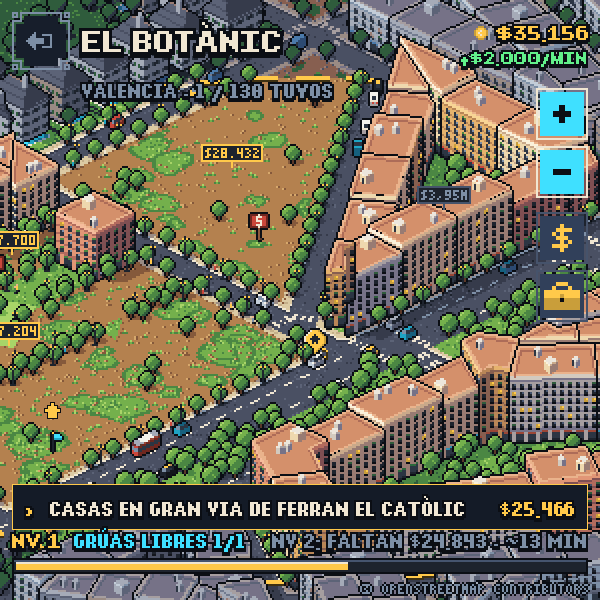
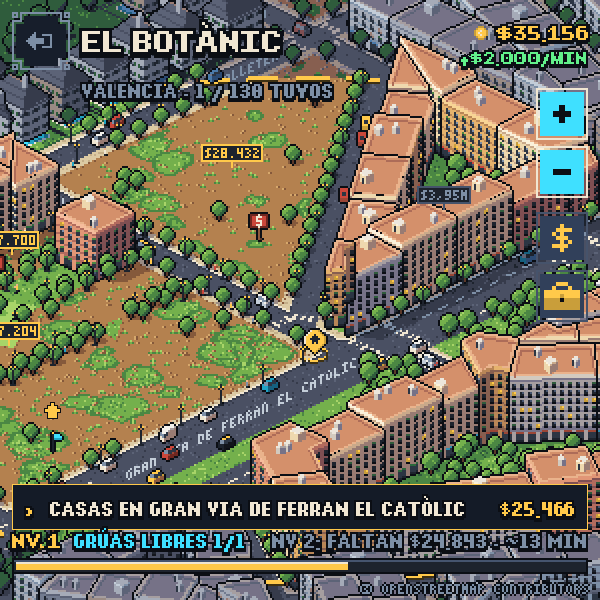
Document the lower skyline and the street names, refresh the screenshots
docs/screenshots/skyline/ for Oscar: skyline_before_after.png (the grown
Valencia area at x2, old | new), skyline_options.png (layouts A-D),
tiers_new.png, labels_options.png (looks A-D) and labels_final.png.
The game's Valencia shots, traffic shots and the tiers sheet are
re-rendered with the new skyline and painted street names.

Claude-Session: https://claude.ai/code/session_01NbsGb8LmPHM5TSczA1ajDg

diff --git a/CLAUDE.md b/CLAUDE.md
@@ -85,7 +85,11 @@ calls (`press`/`click`/`drag`/`hover`/`wheel`/`back`) in canvas coordinates.
   Reintentar / Volver.
 - `office_view.gd` (`OfficeView`) - one saved office, the map viewer: shows `BlockView.texture`
   (drawn once, a frame or two after opening; `is_drawn()`) at x1/x2/x3 (x2 = the mockup), back +
-  neighbourhood ("N / M tuyos"), street names sheared along their streets in the pixel font.
+  neighbourhood ("N / M tuyos"), street names as `LABEL_STYLE` says (`StreetNames`; the static
+  `labels` lets tools switch it): PAINTED (default) has them in the drawing and only adds a
+  plate for the street under the pointer (`_street_under`, `HOVER_REACH`); MICRO / PLATES place
+  them over the map per view (`_labels_now`: each name once, nearest the view's middle first,
+  never over a lot or a building in the pick image, never over the pin).
   Lots are pointed at through BlockView's pick image (`lot_under`): hover = a cyan outline of
   everything the lot shows (grey when outside the active radius, still selectable), click =
   `select` (gold outline, slid up out from under the card; `focus_lot` pans one into view).
@@ -217,10 +221,12 @@ calls (`press`/`click`/`drag`/`hover`/`wheel`/`back`) in canvas coordinates.
   trimmed to the wall) in painter's order, all in the lot's number (`r + g * 256 = lot + 1`):
   `lot_at(px)` is whatever lot is drawn there, a tower's roof included; `outline(lot)` gives
   the two pixel rings around it as runs (cached). `lots` = AreaBuilder's per-lot entries.
-  `street_labels()` gives label spots for the overlay; `pops` the roofs income pops rise from;
+  `street_labels()` gives label spots for the overlay (short names); `names` paints them on the
+  asphalt instead (AreaBuilder `names`); `pops` the roofs income pops rise from;
   `mark_box` the office's pin, `sign_box` it with a margin (labels keep clear), and
   `points_at_mark(px, grow)` (live mode: the depth image says nothing stands in front).
-  `live` mode (the game): any lot may become a skyscraper, so the drawing leaves room; the
+  `live` mode (the game): any lot may become a rascacielos, so the drawing leaves room for
+  `top_of(5, 35)` (~70 px, a third of the old skyscraper's); the
   builder and the image are kept, and `redraw_lot(i)` re-lays one lot (`AreaBuilder.rebuild_lot`)
   and redraws only the rectangle it touches (old and new buildings and shadows + a margin; only
   the ops and objects that reach it, the objects re-sorted among themselves) in small viewports,
@@ -239,11 +245,14 @@ calls (`press`/`click`/`drag`/`hover`/`wheel`/`back`) in canvas coordinates.
   rebuilt at any tier without touching the file), with the mockup's recipes: 0 dirt lot with
   fence posts, weed patches, bushes and a "$" sign (in the radius); 1 a row of houses with
   hedged gardens (`Plotter.sites`, `SITE_DEPTH/FRONT`); 2 bigger houses with pools; 3
-  apartment blocks of mixed heights and facades round a courtyard garden; 4 one to three towers
-  (`_spots`: axis-aligned squares well inside the lot) on a paved plaza; 5 a skyscraper with a
-  gold crown on a podium on a plaza; industrial 1-2 = sheds in a yard; a plot with `works` = a
-  building site (fence, concrete floors under a skeleton, scaffolding, a tower crane from
-  bloque up). The office has no building: `_office_mark` draws a dashed gold ring on the ground
+  apartment blocks of mixed heights and facades round a courtyard garden; 4 torres and 5
+  rascacielos as `Skyline` plans them (`_skyline` / `_piece`: each group one object, each mass
+  in it ringed in ink by `Painter.ink_under`) on a paved plaza; industrial 1-2 = sheds in a
+  yard; a plot with `works` = a building site (fence, concrete floors under a skeleton,
+  scaffolding, a tower crane from bloque up; torres / rascacielos use the plan's footprints and
+  heights). With `names` on (the game, PAINTED), `_paint_names` paints `StreetNames.painted`
+  into the ground right after the lane marks (the dashes under a name are taken out) and every
+  tree laid out later keeps off them (`_on_name`), so a lot redraw keeps them. The office has no building: `_office_mark` draws a dashed gold ring on the ground
   (`pre`, under everything that stands) and a gold map pin sprite (`office`, the city map's
   house in its head; an object of no lot, so it sorts, outlines and goes through the depth pass
   like a lamp but never into the pick image) at `OfficeMark.at`; street trees, lamps, people and
@@ -255,9 +264,27 @@ calls (`press`/`click`/`drag`/`hover`/`wheel`/`back`) in canvas coordinates.
   = centroid inside the radius). Trees (gardens, parks, street trees), lamps and people inside
   the active radius, cars, price tags (`price_tag`, `price_of`) on the nearest signed lots. All
   placement by stable hashes.
+- `skyline.gd` (`Skyline`) - the two top tiers as plans (data only; AreaBuilder draws them and
+  lays their works out from them). **Height cap** so a grown area reads in the widget: torres
+  roofs `TOWER_Z` 30-42 px + a 5 px setback (+ a podium in B), rascacielos' tallest roof
+  `SKY_Z` 52-60 px + a 7 px spire, the others of a lot stepped down (`STAGGER`); `top()` is
+  what `AreaBuilder.top_of` and the live headroom use. The tiers differ by count, glass and
+  gold, not height. Four layouts, `AreaBuilder.SKYLINE_STYLE` picks one (`AreaBuilder.skyline`
+  lets tools switch it): CLUSTER A (staggered slender glass towers), BRIDGES B (default: towers
+  on a lawn-roofed podium, rascacielos joined by gold sky bridges), MEGA C (a terraced block,
+  roof gardens, a helipad), RING D (towers round a garden with a fountain).
+- `street_names.gd` (`StreetNames`) - street names for the office view: `short()` (generic
+  word dropped or abbreviated: "Carrer d'Àngel Guimerà" -> ANGEL GUIMERA, Avinguda -> AV.,
+  accents dropped for the micro font), `runs()` (named streets' straight stretches),
+  `painted()` (B: names in the micro font painted on the asphalt in `PAINT_INK`, on straight
+  stretches of 8 m+ streets clear of junctions, sheared column by column to the street's slope,
+  each name at most `PAINT_REPEAT` times; from the streets alone). The four looks: MICRO A,
+  PAINTED B (default), PLATES C, HOVER D (`OfficeView.LABEL_STYLE`).
 - `painter.gd` (`Painter`) - records one object's ops (POLY, WALL, RECT, TEX) with the mockup's
   primitives: `wall` (wall_pixels), `prism`, `face3d`, `pitched`, Bresenham `line`. POLY ops
   from `flat`/`face3d` carry each corner's ground depth, WALL ops their two ends' (depth pass).
+  `ink_under(start)` puts a one-pixel ink silhouette under the ops since `start` (a sprite's
+  ink copy carries a 4th element), so masses sharing one object still read apart.
 - `world_shader.gd` (`WorldShader`) - the two shaders, generated with the palette's names: the
   facade shader (walls per pixel: apartment, office, house, tower, sky, plain, skeleton,
   scaffold, slab, cab, shed, ink; sprites from the atlas) and the ground shader.
@@ -453,6 +480,14 @@ builds a tower there through the one-lot redraw and fails if any pixel of the ca
 the free manager, saves, time away and its cap, clock moved back and forth, a broken save, the
 bank's limits and an adversarial max-loan + lost income + week away, managers, the builder, the
 office's free lot built like any other and its income by level, a v1 save migrated on load).
+`tools/cloud/skyline_sheet.gd -- --out=/abs/dir --file=/abs/office.json [--only=0,2]` (xvfb-run)
+renders the four skyline layouts side by side (two lots as torres, rascacielos and works, and
+the area fully grown at x2) into `skyline_options.png`; `tools/cloud/labels_sheet.gd --
+--out=/abs/dir [--id=office] [--pan=x,y]` (xvfb-run, overwrites `user://save.json`) opens a
+saved office grown in the real game and shoots the four street-name looks at x2 with traffic
+(`labels_options.png`, `labels_final.png` = the look in use pointing at a street).
+`docs/screenshots/skyline/` holds them for Valencia, plus `skyline_before_after.png` (the grown
+area at x2, the old 170 px skyscrapers | the capped clusters) and `tiers_new.png`.
 `econ_sim.gd [-- --file=/abs/office.json] [--days=N] [--only=ideal,widget,lazy,loans,abuser,absent]`
 plays kinds of player and prints milestones and snapshots (fixture area by default); it exits 1
 if any player ever has interest above the cap or debt that does not shrink with autopay. `docs/screenshots/style_a_side_by_side.png` is the mockup next to the
